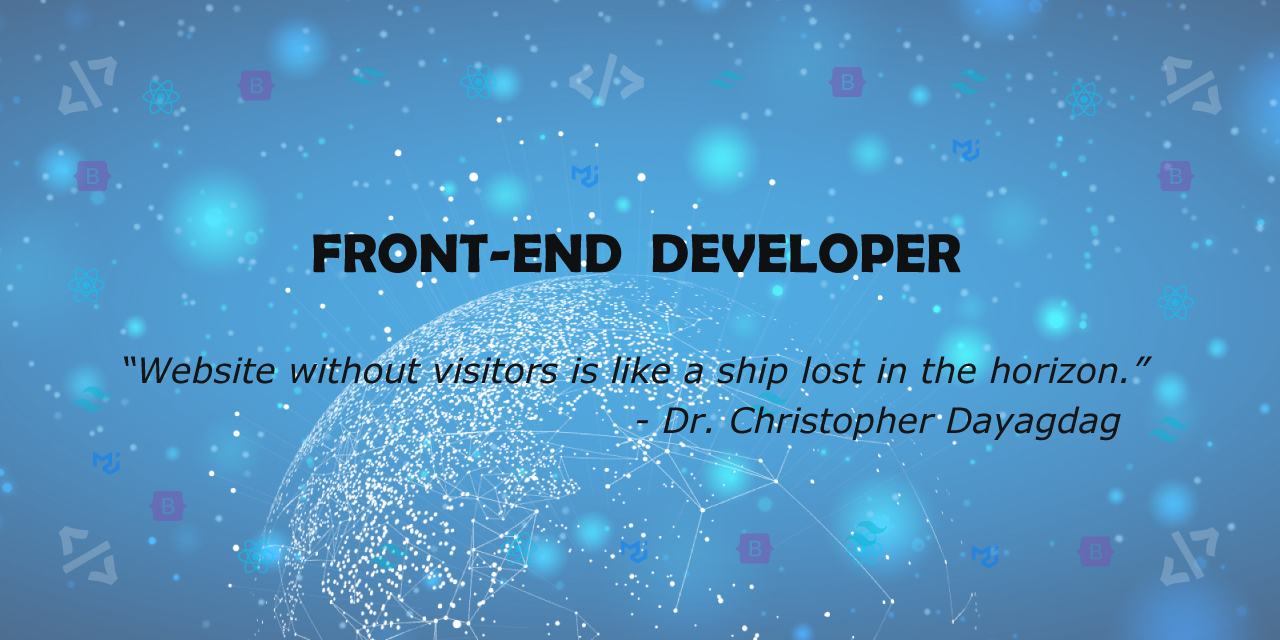
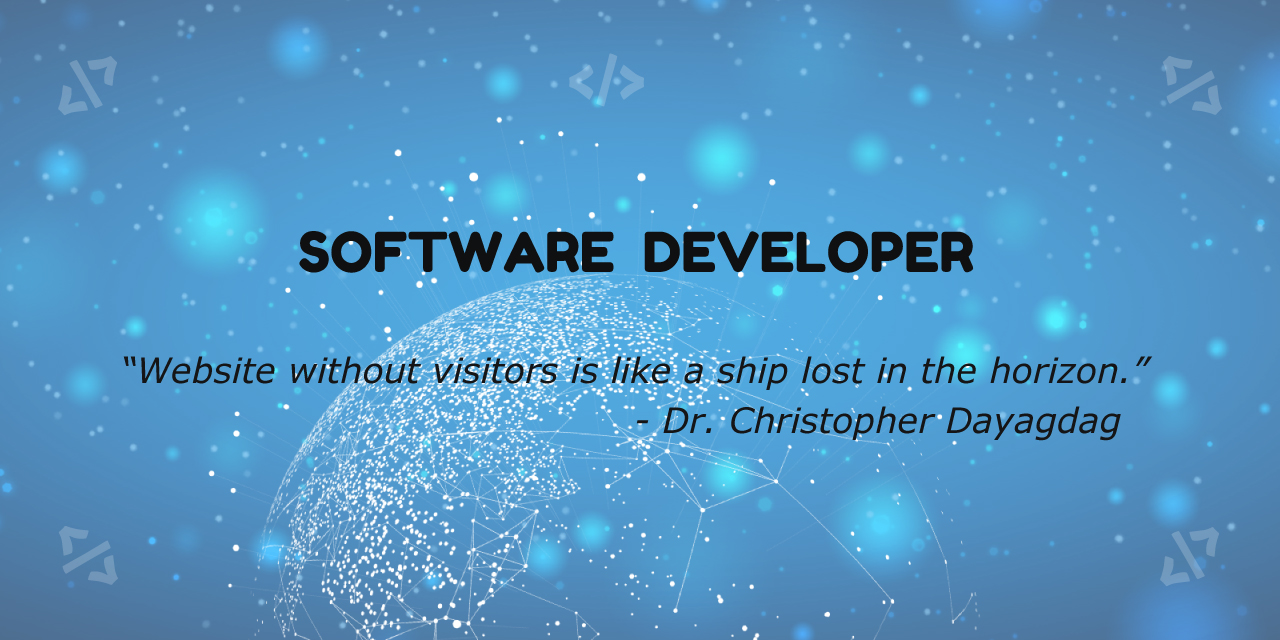
Updated some info and added skills

diff --git a/README.md b/README.md
@@ -1,34 +1,47 @@
-<img src="/images/github-profile-banner.jpg" alt="Front-End Developer" />
+<img src="./images/github-profile-banner.jpg" alt="Front-End Developer" />
 
 ![Profile Views](https://komarev.com/ghpvc/?username=abdullah-al-monir&color=008000)
 
 ## <img src="https://media.giphy.com/media/hr9Z9s7a04vh22LHSw/giphy.gif" height="40px" width="40px" /> About Me
 
 <h2><img src="https://media.giphy.com/media/gM5qFksULw54NMWyry/giphy.gif" height="40px" width="40px"/> Hi, I'm Abdullah Al Monir</h2>
-<h3>Junior Front-End Developer</h3>
+<h3>Software Developer Trainee</h3>
 
-🌟 Eager learner in frontend development, focusing on crafting responsive web interfaces.
+🌟 Eager learner in web development, focusing on crafting responsive web interfaces.
 </br>
-💻 Proficient in HTML, CSS, JavaScript, React, Tailwind CSS, Firebase, MongoDB.
+💻 Proficient in HTML, CSS, JavaScript, PHP, React, Laravel, InertiaJs, Tailwind CSS, Firebase, MongoDB.
 </br>
-🚀 Currently exploring PHP, Laravel, MySQL.
+🚀 Currently working with React, Laravel, InertiaJs, MySQL.
 </br>
 🌱 Dedicated to continuous growth and contributing fresh perspectives to the web development industry.
 </br>
 📫 Reach me at [abdullahalmonir364@gmail.com](mailto:abdullahalmonir364@gmail.com)
+</br>
+<a href="http://abdullah-al-monir.web.app">
+<img src="https://img.shields.io/badge/Portfolio-%23000000.svg?style=for-the-badge&logo=firefox&logoColor=#FF7139" alt="Portfolio" height="30">
+</a>
 
 ## <img src="https://media.giphy.com/media/vTUs60YG8Cdgl3s0Ky/giphy.gif" height="30px" width="30px" /> Social
 
 [![Facebook](https://img.shields.io/badge/Facebook-1877F2?style=for-the-badge&logo=facebook&logoColor=white)](https://facebook.com/aam364)
 [![Instagram](https://img.shields.io/badge/Instagram-E4405F?style=for-the-badge&logo=instagram&logoColor=white)](https://instagram.com/mr_colon_three)
 [![LinkedIn](https://img.shields.io/badge/LinkedIn-0077B5?style=for-the-badge&logo=linkedin&logoColor=white)](https://linkedin.com/in/aam364)
+<a href="https://www.youtube.com/channel/UCwnKVwINZ39pw_2uYMBJPKg">
+<img src="https://img.shields.io/badge/YouTube-%23FF0000.svg?style=for-the-badge&logo=YouTube&logoColor=white" alt="YouTube">
+</a>
+<a href="https://wa.me/+8801848384326">
+<img src="https://img.shields.io/badge/WhatsApp-25D366?style=for-the-badge&logo=whatsapp&logoColor=white" alt="WhatsApp">
+</a>
 
 ## <img src="https://media.giphy.com/media/MaI6BylfjAkDkfk4OC/giphy.gif" height="40px" width="40px" /> Technologies & Proficiencies
 
 [![HTML5 Badge](https://img.shields.io/badge/HTML5-E34F26?style=for-the-badge&logo=html5&logoColor=white)](https://developer.mozilla.org/en-US/docs/Web/Guide/HTML/HTML5)
 [![CSS3 Badge](https://img.shields.io/badge/CSS3-1572B6?style=for-the-badge&logo=css3&logoColor=white)](https://developer.mozilla.org/en-US/docs/Web/CSS)
 [![JavaScript Badge](https://img.shields.io/badge/JavaScript-F7DF1E?style=for-the-badge&logo=javascript&logoColor=black)](https://developer.mozilla.org/en-US/docs/Web/JavaScript)
+![PHP](https://img.shields.io/badge/php-%23777BB4.svg?style=for-the-badge&logo=php&logoColor=white)
+![Laravel](https://img.shields.io/badge/laravel-%23FF2D20.svg?style=for-the-badge&logo=laravel&logoColor=white)
 [![MongoDB Badge](https://img.shields.io/badge/MongoDB-%234ea94b.svg?style=for-the-badge&logo=mongodb&logoColor=white)](https://www.mongodb.com/)
+![MySQL](https://img.shields.io/badge/mysql-4479A1.svg?style=for-the-badge&logo=mysql&logoColor=white)
 [![ExpressJs Badge](https://img.shields.io/badge/express.js-%23404d59.svg?style=for-the-badge&logo=express&logoColor=%2361DAFB)](https://expressjs.com/)
 [![ReactJs Badge](https://img.shields.io/badge/react-%2320232a.svg?style=for-the-badge&logo=react&logoColor=%2361DAFB)](https://reactjs.org/)
 [![NodeJs Badge](https://img.shields.io/badge/node.js-6DA55F?style=for-the-badge&logo=node.js&logoColor=white)](https://nodejs.org/)
